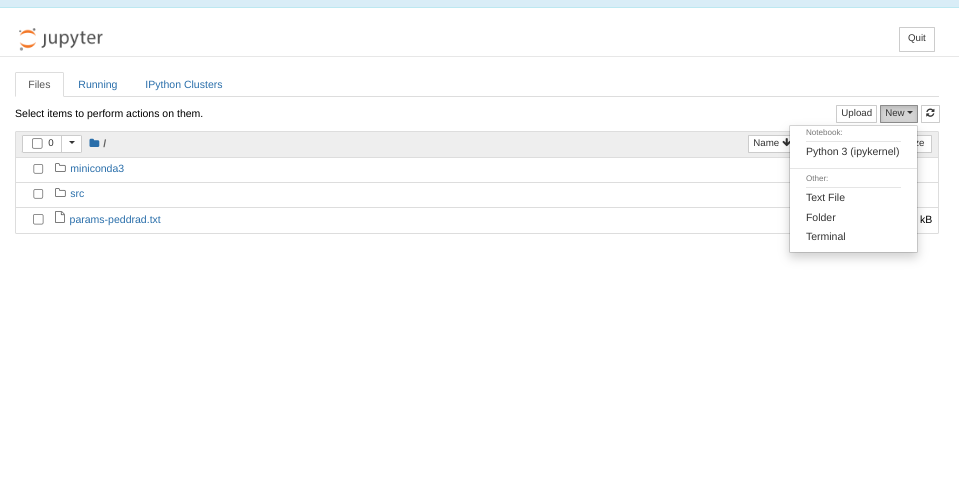
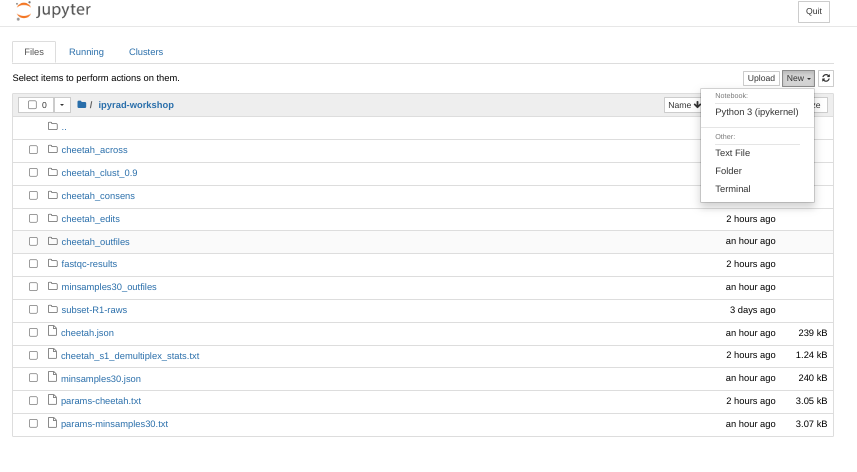
adjust raxml tutorial

diff --git a/Kigali2023/RAxML_API.md b/Kigali2023/RAxML_API.md
@@ -31,10 +31,10 @@ a new "branch" of our assembly and re-run step 3 to generate new output files.
 ```
 
 This creates a new params file (as it says) which you should edit and modify
-the following parameter:
+to update the following parameter:
 
 ```
-30                              ## [21] [min_samples_locus]: Min # samples per locus for output
+30              ## [21] [min_samples_locus]: Min # samples per locus for output
 ```
 
 Now you can run step 7 again to generate the new output files with this new
@@ -43,6 +43,11 @@ Now you can run step 7 again to generate the new output files with this new
 ```bash
 (ipyrad) osboxes@osboxes:~/ipyrad-workshop$ ipyrad -p params-minsamples30.txt -s 7 -c 4
 ```
+
+This will create a new set of output files in `minsamples30_outfiles` which
+have only retained loci present in 30 or more samples. Look at the stats file
+to see how many loci are retained in this dataset? Do you think it will be fewer
+or more than in the previous assembly with `min_samples_locus` set to 4?
 
 ## A note on Jupyter/IPython
 [Jupyter notebooks](http://jupyter.org/) are primarily a way to generate
@@ -56,7 +61,8 @@ all code in cells of a jupyter notebook.
 # **RAxML** analyses
 
 ## Create a new notebook for the RAxML analysis
-In the jupyter notebook browser interface create a "New->Python" Notebook.
+In the jupyter notebook browser interface navigate to your `ipyrad-workshop`
+directory and create a "New->Python" Notebook.
 
 ![png](images/raxml-CreateNotebook.png)
 
